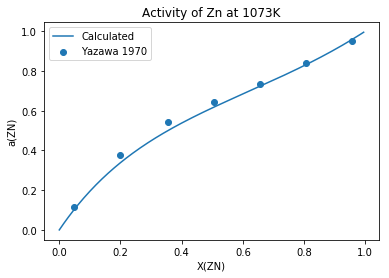
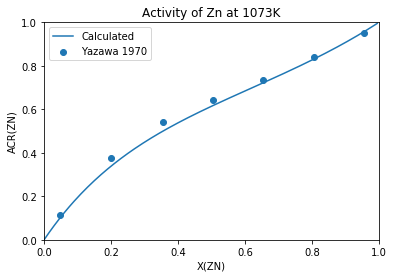
DOC: Update plot activity with feedback

diff --git a/docs/examples/PlotActivity.rst b/docs/examples/PlotActivity.rst
@@ -3,11 +3,30 @@ Calculate and Plot Activity
 ===========================
 
 Given an existing database for Al-Zn, we would like to calculate the
-activity of the liquid. In order to make sure we are correct, we'll
-compare the values with experimental results.
+activity of the liquid.
+
+Experimental activity results
+-----------------------------
+
+In order to make sure we are correct, we'll compare the values with
+experimental results. Experimental activities are digtized from Fig 18
+in A. Yazawa, Y.K. Lee, Thermodynamic Studies of the Liquid Aluminum
+Alloy Systems, Trans. Japan Inst. Met. 11 (1970) 411–418.
+https://doi.org/10.2320/matertrans1960.11.411.
+
+The measurements at at 1073 K and they used a reference state of the
+pure Zn at that temperature.
+
+.. code:: ipython3
+
+    exp_x_zn =   [0.0482, 0.1990, 0.3550, 0.5045, 0.6549, 0.8070, 0.9569]
+    exp_acr_zn = [0.1154, 0.3765, 0.5411, 0.6433, 0.7352, 0.8384, 0.9531]
 
 Set up the database
 ~~~~~~~~~~~~~~~~~~~
+
+Al-Zn database is taken from S. Mey, Reevaluation of the Al-Zn system,
+Zeitschrift F{ü}r Met. 84 (1993) 451–455.
 
 .. code:: ipython3
 
@@ -22,9 +41,9 @@ Set up the database
 Calculate the reference state
 -----------------------------
 
-You could also include this in the equilibrium calculation in the next
-step and select out the point you want, but it might be clear to be more
-explicit.
+Because all chemical activities must be specified with a reference
+state, we're going to choose a reference state as the pure element at
+the same temperature, consistent with the experimental data.
 
 .. code:: ipython3
 
@@ -33,7 +52,7 @@ explicit.
 Calculate the equilibria
 ------------------------
 
-Do the calculation over the compoisition range
+Do the calculation over the composition range
 
 .. code:: ipython3
 
@@ -52,24 +71,6 @@ calculate the activity.
     
     acr_zn = np.exp((chempot - chempot_ref)/(8.315*1023))
 
-Experimental activity results
------------------------------
-
-For comparision, we'll add experimental results.
-
-Activties are digtized from Fig 18 in Yazawa, A., & Lee, Y. K. (1970).
-Thermodynamic Studies of the Liquid Aluminum Alloy Systems. Transactions
-of the Japan Institute of Metals, 11(6), 411–418.
-http://doi.org/10.2320/matertrans1960.11.411
-
-The measurements at at 1073 K (the same temperature our calculations
-were at) and the reference is the pure components at that temperature.
-
-.. code:: ipython3
-
-    exp_x_zn =   [0.0482, 0.1990, 0.3550, 0.5045, 0.6549, 0.8070, 0.9569]
-    exp_acr_zn = [0.1154, 0.3765, 0.5411, 0.6433, 0.7352, 0.8384, 0.9531]
-
 Plot the result
 ---------------
 
@@ -82,8 +83,10 @@ Plot the result
     # add experimental data
     plt.scatter(exp_x_zn, exp_acr_zn, label='Yazawa 1970')
     
+    plt.xlim((0, 1))
+    plt.ylim((0, 1))
     plt.xlabel('X(ZN)')
-    plt.ylabel('a(ZN)')
+    plt.ylabel('ACR(ZN)')
     plt.title('Activity of Zn at 1073K')
     plt.legend(loc=0)
 
@@ -92,7 +95,7 @@ Plot the result
 
 .. parsed-literal::
 
-    <matplotlib.legend.Legend at 0x11bcc7898>
+    <matplotlib.legend.Legend at 0x1133e5278>
 
 
 
